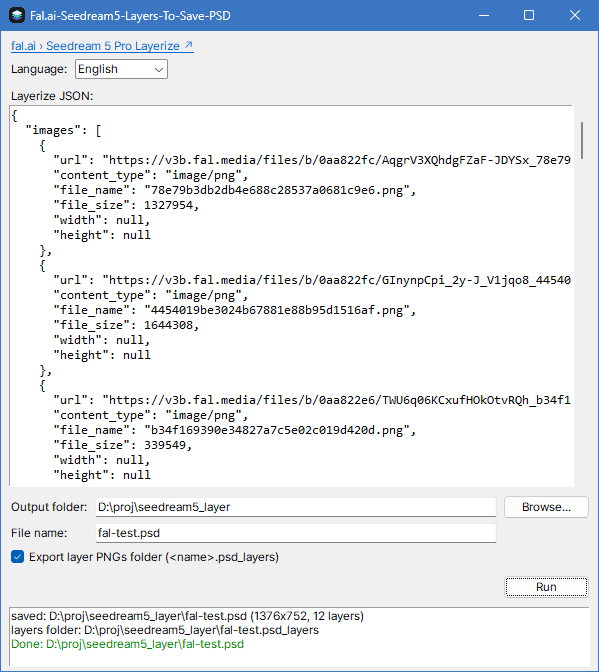
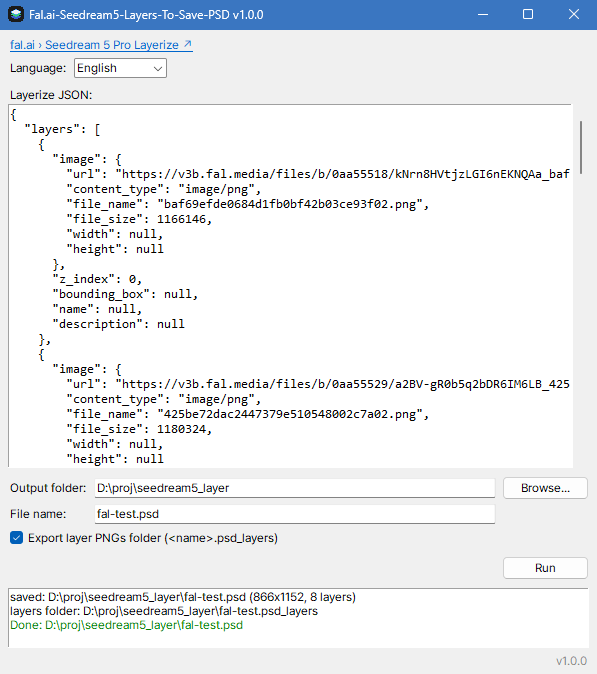
GUI: version label in bottom status area; refresh README screenshot

diff --git a/gui.py b/gui.py
@@ -192,6 +192,11 @@ class App:
         self.status.tag_configure('ok', foreground='#008000')
         self.status.tag_configure('err', foreground='#c00000')
 
+        # 최하단 버전 표기
+        ttk.Label(root, text=f'v{__version__}', foreground='#888888').grid(
+            row=6, column=0, sticky='e', padx=8, pady=(0, 4)
+        )
+
         self.apply_language()
         self.log(self.tr('status_ready'))
         root.after(100, self.poll)
